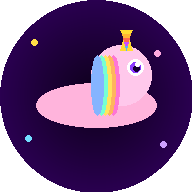
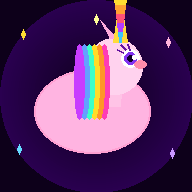
Regenera ícones PWA e força atualização do service worker
- Ícones RGB sólidos (sem transparência) — melhor compatibilidade PWA/iOS
- sw.js v3: limpa cache antigo ao ativar, serve novos ícones
- Adiciona <link rel="icon"> para favicon no browser

diff --git a/index.html b/index.html
@@ -10,6 +10,7 @@
 <meta name="apple-mobile-web-app-status-bar-style" content="black-translucent">
 <meta name="apple-mobile-web-app-title" content="Jogo da Maria">
 <link rel="manifest" href="manifest.json">
+<link rel="icon" type="image/png" sizes="192x192" href="icons/icon-192.png">
 <link rel="apple-touch-icon" href="icons/icon-192.png">
 <link rel="stylesheet" href="style.css?v=4.1">
 </head>

diff --git a/sw.js b/sw.js
@@ -1,4 +1,4 @@
-const CACHE = 'unicorn-v2';
+const CACHE = 'unicorn-v3';
 const ASSETS = [
   './',
   './index.html',
